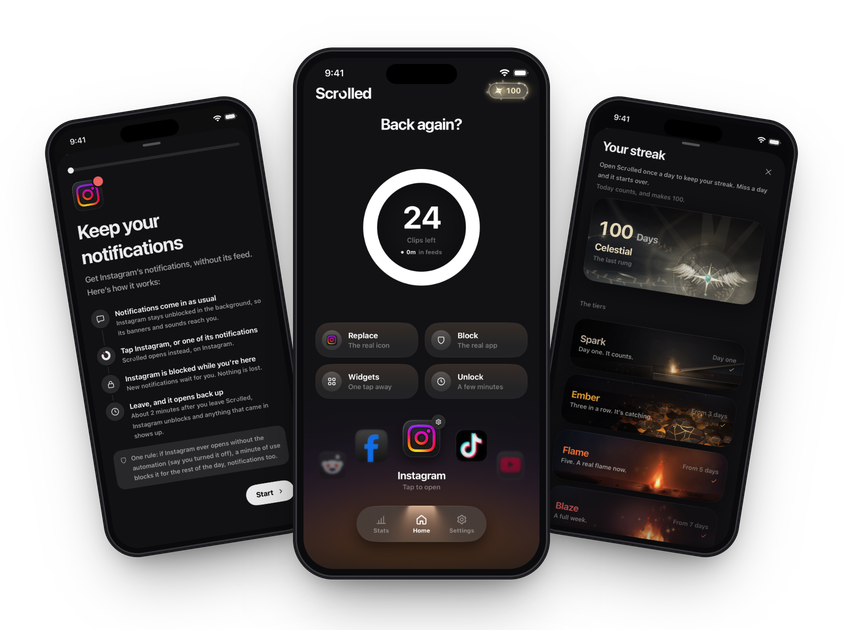
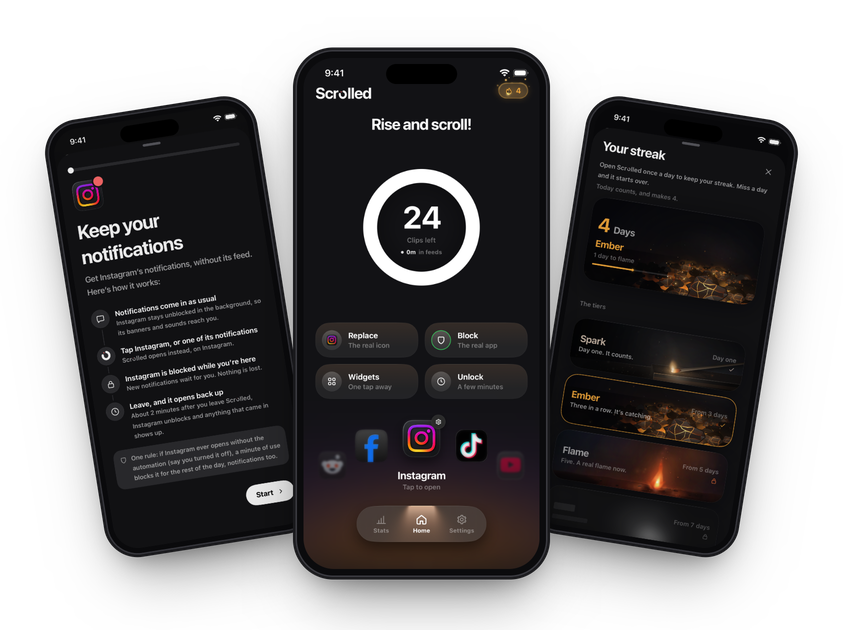
Keep Scrolled's higher streak tiers a surprise: 4-day screens, no tier names past flame

diff --git a/projects-data.js b/projects-data.js
@@ -17,7 +17,7 @@ window.PROJECTS = {
       "The onboarding ended up being the biggest part of the app, more than a third of all the Swift. It's around 20 screens, and most of them run on your own numbers: you scroll a little feed that actually has a bottom, put in your real Screen Time hours, and see how much of your free time they eat up on a \"your life in weeks\" calendar. Near the end you make a pinky promise by holding down a pad, and the paywall right after it is built out of your own answers instead of testimonials or countdown timers.",
       "Some other stuff in it:",
       [
-        'A streak for opening the app every day, with nine tiers from spark to celestial, each with its own animated scene drawn in code',
+        'A streak for opening the app every day that climbs through tiers, each with its own animated scene drawn in code. Only the next one is shown, the rest stay hidden until you get there',
         'A stats page that only shows what the app actually measured, plus how much time you kept for yourself',
         'Four themes, including an adaptive one with an animated Metal shader background in the colors of whatever feed you pick, plus a grayscale mode that turns the whole app, feeds included, black and white',
         'Home screen widgets that show how many clips you have left',
@@ -35,7 +35,7 @@ window.PROJECTS = {
       { kind: 'image', src: 'project%20media/scrolled%20notifications.jpg', name: 'Notifications', caption: "instagram's notifications, without its feed." },
       { kind: 'image', src: 'project%20media/scrolled%20feeds.jpg',         name: 'Feed switches', caption: 'every feed gets its own settings.' },
       { kind: 'image', src: 'project%20media/scrolled%20blocked.jpg',       name: 'Blocking',      caption: 'the real apps, shut with Screen Time.' },
-      { kind: 'image', src: 'project%20media/scrolled%20streak.jpg',        name: 'Streak',        caption: 'nine tiers, each one drawn in code.' }
+      { kind: 'image', src: 'project%20media/scrolled%20streak.jpg',        name: 'Streak',        caption: 'only the next tier shows. the rest are a surprise.' }
     ],
     legal: [
       { label: 'Terms of Use',   href: 'https://getscrolled.app/terms',   caption: 'on getscrolled.app.' },
